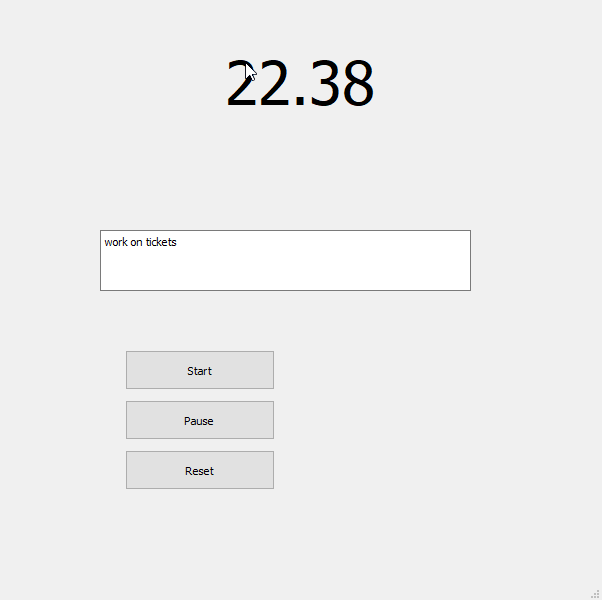
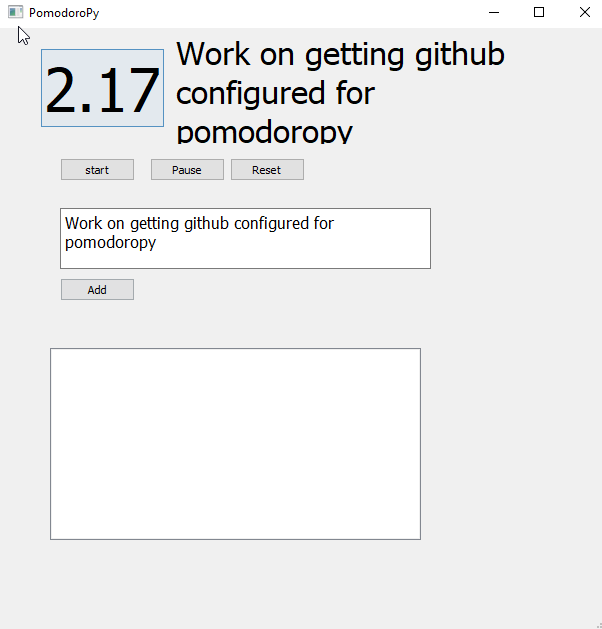
Add notify method to form Add config object Added modal option to timer notifications

diff --git a/pomodoropy/main.py b/pomodoropy/main.py
@@ -2,24 +2,36 @@ import sys
 import time
 
 from PySide2.QtUiTools import QUiLoader
-from PySide2.QtWidgets import QApplication, QPushButton, QLabel, QTextEdit, QPlainTextEdit
+from PySide2.QtWidgets import QApplication, QPushButton, QLabel, QTextEdit, QPlainTextEdit, QMessageBox
 from PySide2.QtCore import QFile, QObject, QTimer
 from PySide2.QtCore import Qt
 from win10toast import ToastNotifier
 
-DURATION = 1500
+
 toaster = ToastNotifier()
+
+
+class Config(object):
+    def __init__(self, notify_type, duration=1500):
+        self.notifyType = notify_type
+        self.duration = duration
+
+
+cfg = Config("modal")
+
 
 class Form(QObject):
 
-    def __init__(self, ui_file, parent=None, client=None):
+    def __init__(self, ui_file, parent=None, client=None, config=cfg):
         super(Form, self).__init__(parent)
         ui_file = QFile(ui_file)
         loader = QUiLoader()
         self.window = loader.load(ui_file)
         ui_file.close()
         self.start = False
-        self.count = DURATION
+        self.duration = cfg.duration
+        self.count = cfg.duration
+        self.current_task = ""
 
         # creating start button
         start_button = self.window.findChild(QPushButton, 'startButton')
@@ -40,7 +52,6 @@ class Form(QObject):
 
         self.timerText = self.window.findChild(QPushButton, 'toggleButton')
 
-
         # creating a timer object
         self.timer = QTimer(self)
 
@@ -49,7 +60,7 @@ class Form(QObject):
         self.timer.start(1000)
 
         # setting label text
-        self.timerText.setText(f"{int(DURATION / 60)}")
+        self.timerText.setText(f"{int(self.duration / 60)}")
         # self.window.destroyed.connect(self.window.close)
 
         self.window.show()
@@ -70,11 +81,8 @@ class Form(QObject):
         if self.count == 0:
             self.reset_action()
         print(f'starting {self.count}')
-        toaster.show_toast("starting timer",
-                           "Starting Timer",
-                           icon_path=None,
-                           duration=0,
-                           threaded=True)
+        self.notify("starting Timer", self.current_task, "toaster")
+
 
     def pause_action(self):
         # making flag false
@@ -83,7 +91,7 @@ class Form(QObject):
     def reset_action(self):
         # making flag false
         self.start = False
-        self.count = DURATION
+        self.count = self.duration
         self.timerText.setText(f"{self.count / 60:.0f}")
 
     def updateTime(self):
@@ -97,16 +105,29 @@ class Form(QObject):
                 self.count = 0
                 text = str(self.count)
                 self.timerText.setText(text)
-                toaster.show_toast("timer Done",
-                                   "timer for task has been completed",
-                                   icon_path=None,
-                                   duration=0,
-                                   threaded=True)
+                self.notify("Timer Done",self.current_task)
+
+    def notify(self,title, message,notify_type=None):
+        notify_type = notify_type if notify_type else self.config.notifyType
+        if notify_type == "Modal":
+            msg = QMessageBox()
+            msg.setIcon(QMessageBox.Information)
+
+            msg.setText(message)
+
+            msg.exec_()
+        else:
+            toaster.show_toast(title,
+                               message,
+                               icon_path=None,
+                               duration=0,
+                               threaded=True)
 
     def add_task(self):
-        task = self.window.findChild(QPlainTextEdit,"addTaskTextEdit")
-        current_task = self.window.findChild(QLabel,"currentTaskLabel")
-        current_task.setText(task.toPlainText())
+        task = self.window.findChild(QPlainTextEdit, "addTaskTextEdit")
+        taskLabel = self.window.findChild(QLabel, "currentTaskLabel")
+        self.current_task = task.toPlainText()
+        taskLabel.setText(task.toPlainText())
 
 
 if __name__ == '__main__':

diff --git a/setup.py b/setup.py
@@ -2,7 +2,7 @@ from setuptools import setup
 
 setup(
     name='pomodoropy',
-    version='v.0.0.1',
+    version='v.0.0.2',
     packages=['pomodoropy'],
     url='',
     license='MIT',
